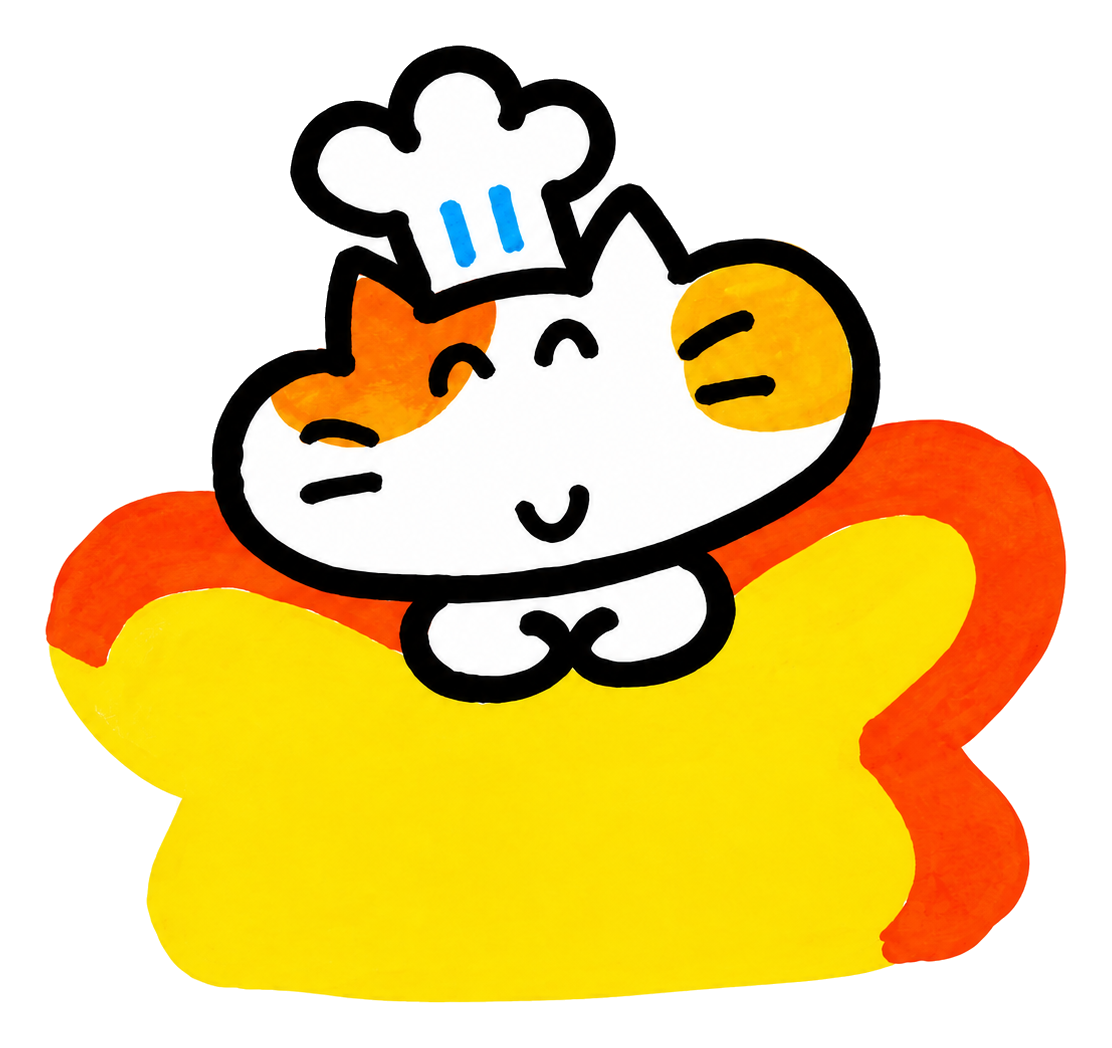
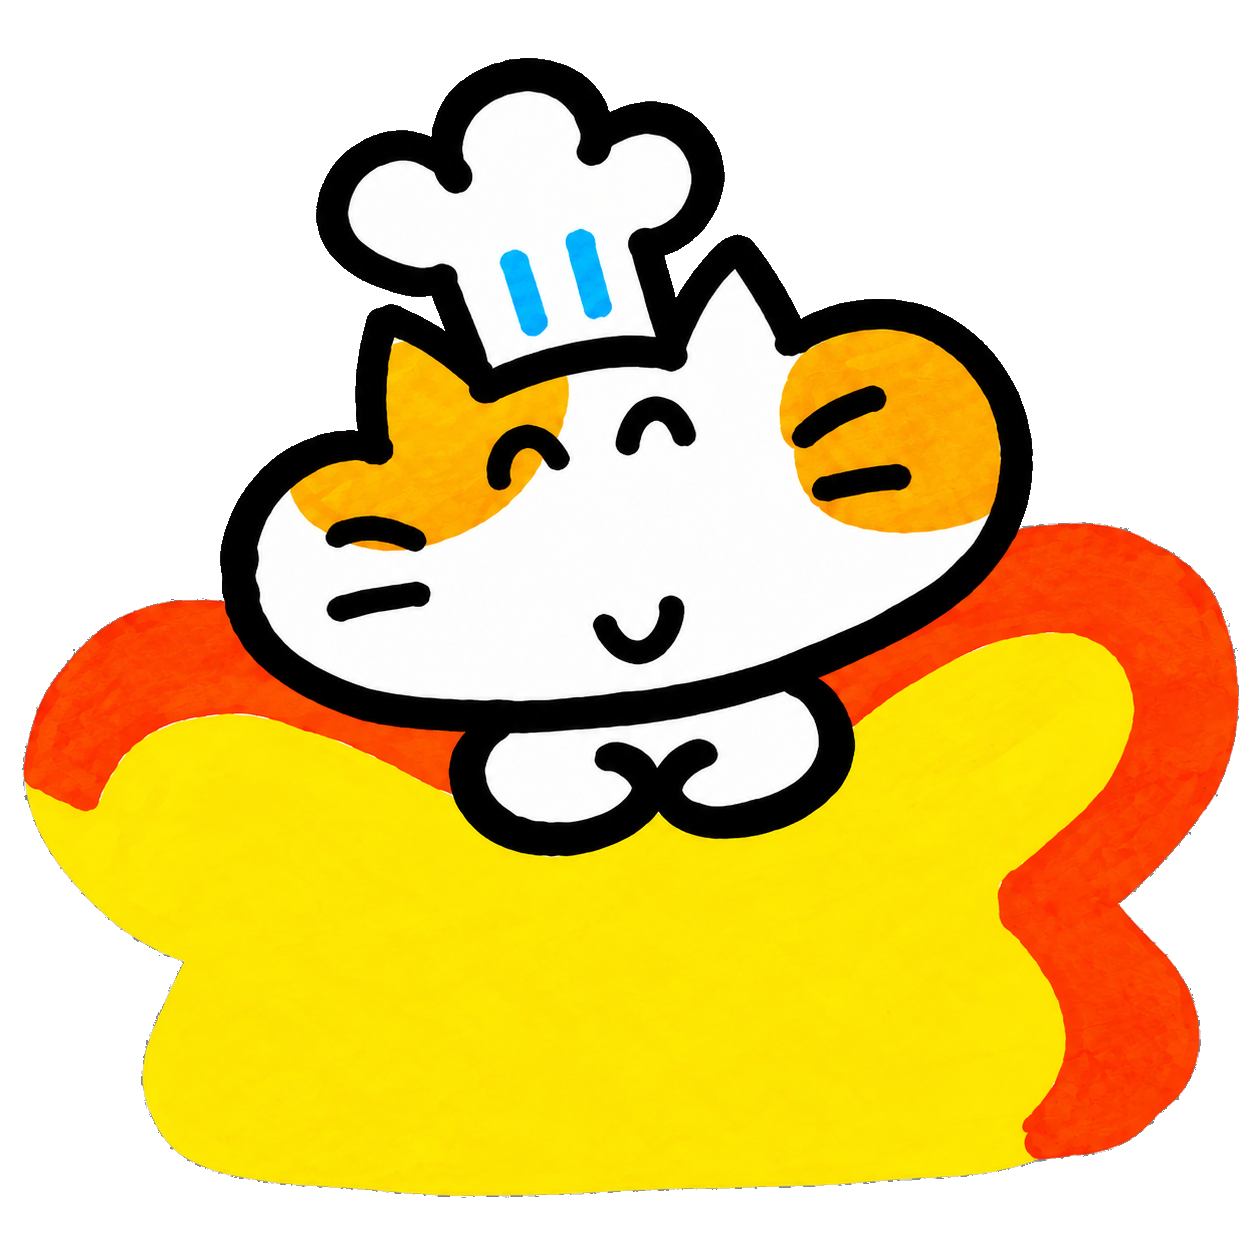
发布 1.6.1

diff --git a/src/pages/SettingsPage.tsx b/src/pages/SettingsPage.tsx
@@ -60,6 +60,6 @@ export function SettingsPage({ transactions, dark, setDark, onRestore, onClear, 
     </section>
     <h2 className="settings-section-title">危险操作</h2>
     <section className="settings-card danger-card"><button onClick={clear} disabled={!transactions.length}><span className="settings-icon red"><Icon name="trash" size={20} /></span><span>清空全部数据<small>删除此设备上的所有账单</small></span><Icon name="chevron-right" size={18} /></button></section>
-    <section className="app-info"><img className="mini-app-icon" src={`${import.meta.env.BASE_URL}pwa-192x192.png`} alt="我的账本图标" /><strong>我的账本</strong><span>版本 1.6.0</span><p>纯本地 · 无账号 · 无追踪</p></section>
+    <section className="app-info"><img className="mini-app-icon" src={`${import.meta.env.BASE_URL}pwa-192x192.png`} alt="我的账本图标" /><strong>我的账本</strong><span>版本 1.6.1</span><p>纯本地 · 无账号 · 无追踪</p></section>
   </main>
 }

diff --git a/upgrade_handoff.md b/upgrade_handoff.md
@@ -6,7 +6,7 @@
 ## 1. 当前项目状态
 
 - 项目：`my-ledger`，面向个人使用的 iPhone 记账 PWA。
-- 当前登记版本：`1.6.0`，项目、锁文件根项目版本与设置页显示已同步；提交推送及线上发布状态未查询。
+- 当前登记版本：`1.6.1`，项目、锁文件根项目版本与设置页显示已同步；提交推送及线上发布状态未查询。
 - 开发环境：Windows + VS Code；手机通过 Safari 添加到主屏幕使用。
 - 仓库：<https://github.com/GsmhKor/my-ledger>，分支 `main`。
 - 线上：<https://gsmhkor.github.io/my-ledger/>，部署子路径 `/my-ledger/`。
@@ -78,10 +78,13 @@
 
 ## 5. 最近一次尚未发布的改动
 
+- 首页底部导航“账单”厨师猫的两侧毛色已按用户样本统一为金橙色；帽子、表情、线条、黄色底座和橙红边缘保持不变。
+- 内置 `image_gen` 负责局部改绘；因工具输出实体棋盘格，随后用 sharp 清理连通的外部灰色背景并保留轮廓内白色，透明母版和 192 × 192 应用 PNG 均已替换。
+- 本轮已运行 `npm run icons` 并检查最终 `cat-tab-bills.png`；提示词与处理说明见 `design/transport-navigation-cats-source.md`，未重新运行 lint 或 build。
 - 收入分类新增三张用户指定猫咪图：图 1 对应奖金、图 2 对应退款、图 3 对应投资收益；工资和其他收入不变。
 - 内置 `image_gen` 提取/改绘为透明母版，并生成 192 × 192 应用 PNG；共享 `CategorySymbol` 映射会同步用于记账选项、账单行和统计图例，原生筛选下拉框仍使用原 emoji。
 - 新增 `design/income-category-cats-source.md` 记录素材映射和完整提示词，`scripts/generate-icons.mjs` 加入三张资源的重建条目。
-- 本轮已运行 `npm run icons` 并检查三张应用 PNG 的尺寸、透明通道和画面；未重新运行 lint 或 build，未提交或推送。
+- 收入分类改动已运行 `npm run icons` 并检查三张应用 PNG 的尺寸、透明通道和画面；未提交或推送。
 - 用户要求：日用品改为图 1 黄色卷发猫，餐饮改为图 2 喷火猫，其他改为图 3 受撞猫，去掉「dong」。
 - 内置 image_gen 提取/改绘，保留分类名称和 ID；替换 `cat-daily`、`cat-food`、`cat-other` 的透明母版及 192 × 192 应用 PNG。
 - 现有共享组件自动用于记账选项、账单行和统计图例；原生筛选下拉框仍用原 emoji，未改业务代码或重建脚本。
@@ -93,7 +96,7 @@
 - 设置页不显示浮动记账按钮，避免出现无内容的橙色圆球；首页、账单和统计页的按钮显示效果一致。
 - 新增 `design/generated/add-picnic-master.png`、`src/assets/add-picnic.png`（480px 宽），脚本加入重建条目；提示词见 `design/add-picnic-source.md`。
 - UI 调整未修改金额计算、账单、存储或备份格式。
-- 项目版本已按用户要求更新为 `1.6.0`。此前发布 `1.5.5` 时曾误将锁文件内第三方依赖版本一并替换，导致 GitHub Actions 在 `npm ci` 下载不存在的 `regexp.prototype.flags@1.5.5` 时返回 404；已恢复该依赖为 `1.5.4`，并同时恢复被误改的 `electron-to-chromium` 锁定信息。
+- 项目版本已按用户要求更新为 `1.6.1`。此前发布 `1.5.5` 时曾误将锁文件内第三方依赖版本一并替换，导致 GitHub Actions 在 `npm ci` 下载不存在的 `regexp.prototype.flags@1.5.5` 时返回 404；已恢复该依赖为 `1.5.4`，并同时恢复被误改的 `electron-to-chromium` 锁定信息。
 - 此前锁文件修复已在本地通过干净安装 `npm ci` 和正式构建 `npm run build`；后续发布按用户指示执行。
 
 ## 6. 下一会话开发规则

diff --git a/design/transport-navigation-cats-source.md b/design/transport-navigation-cats-source.md
@@ -18,6 +18,33 @@
 应用 PNG 为 192 × 192，导航显示为 34 × 34 CSS 像素，保留原导航文字和选中文字颜色。
 交通新母版替换原乘车猫；旧 `category-cats-source.md` 中的交通生成过程仅代表旧素材来源。
 
+## 账单导航猫毛色修正（2026-09-10）
+
+- 用户指出首页底部「账单」上方的厨师猫毛色与样本不符。
+- 以内置 `image_gen` 对现有高分辨率母版做局部改绘：只将左右两侧毛色统一为样本中的金橙色，保留帽子、蓝色帽纹、表情、爪子、黑色线条、黄色底座与橙红边缘。
+- 工具输出将透明背景画成了实体棋盘格；随后沿用项目的连通背景清理思路，用 sharp 从画布边缘移除中性灰网格并恢复真实 alpha，内部白色猫脸、帽子和爪子保持不透明。
+- 已替换 `design/generated/cat-tab-bills-master.png`，由现有生成脚本重建 `src/assets/cat-tab-bills.png`。
+
+### 毛色修正提示词
+
+```text
+Use case: precise-object-edit
+Asset type: bottom navigation icon master for the mobile ledger tab 账单
+Input images: the large square high-resolution chef-cat image is the edit target; the user's small white-background chef-cat image is the authoritative color reference; the small transparent 192px icon is context only.
+Primary request: Change ONLY the calico fur patches on the chef cat so both the left ear/cheek patch and the right cheek/ear patch match the same warm golden-orange fur color shown in the user's reference image. Remove the current mismatch where the left patch is dark orange and the right patch is yellow.
+Constraints: preserve the exact existing high-resolution edit target's cat shape, pose, proportions, facial expression, paws, uneven black hand-drawn outlines, chef hat, two blue hat stripes, yellow cushion/base, orange-red outer edge, crop, scale, and transparent background. Do not recolor the yellow cushion or orange-red edge. Do not redraw, add, remove, or reposition anything. No text, checkerboard, white rectangle, shadow, or watermark. Output a genuinely transparent RGBA PNG.
+```
+
+### 去背景提示词
+
+```text
+Use case: background-extraction
+Asset type: bottom navigation icon master for the mobile ledger tab 账单
+Input images: Image 1 is the sole edit target, the recolored chef-cat image with a gray checkerboard behind it.
+Primary request: Remove ONLY the entire gray checkerboard exterior background and replace it with genuinely transparent alpha pixels.
+Constraints: preserve the chef cat, both matching warm golden-orange fur patches, chef hat and blue stripes, facial expression, paws, all uneven black outlines, yellow cushion/base, orange-red outer edge, exact colors, proportions, crop, and scale unchanged. Keep all white areas inside the cat and chef hat opaque white. Do not redraw or recolor anything. No visible checkerboard, white rectangle, text, shadow, or watermark. Output an RGBA PNG with actual transparency.
+```
+
 ## 内置工具完整提示词
 
 ### transport
